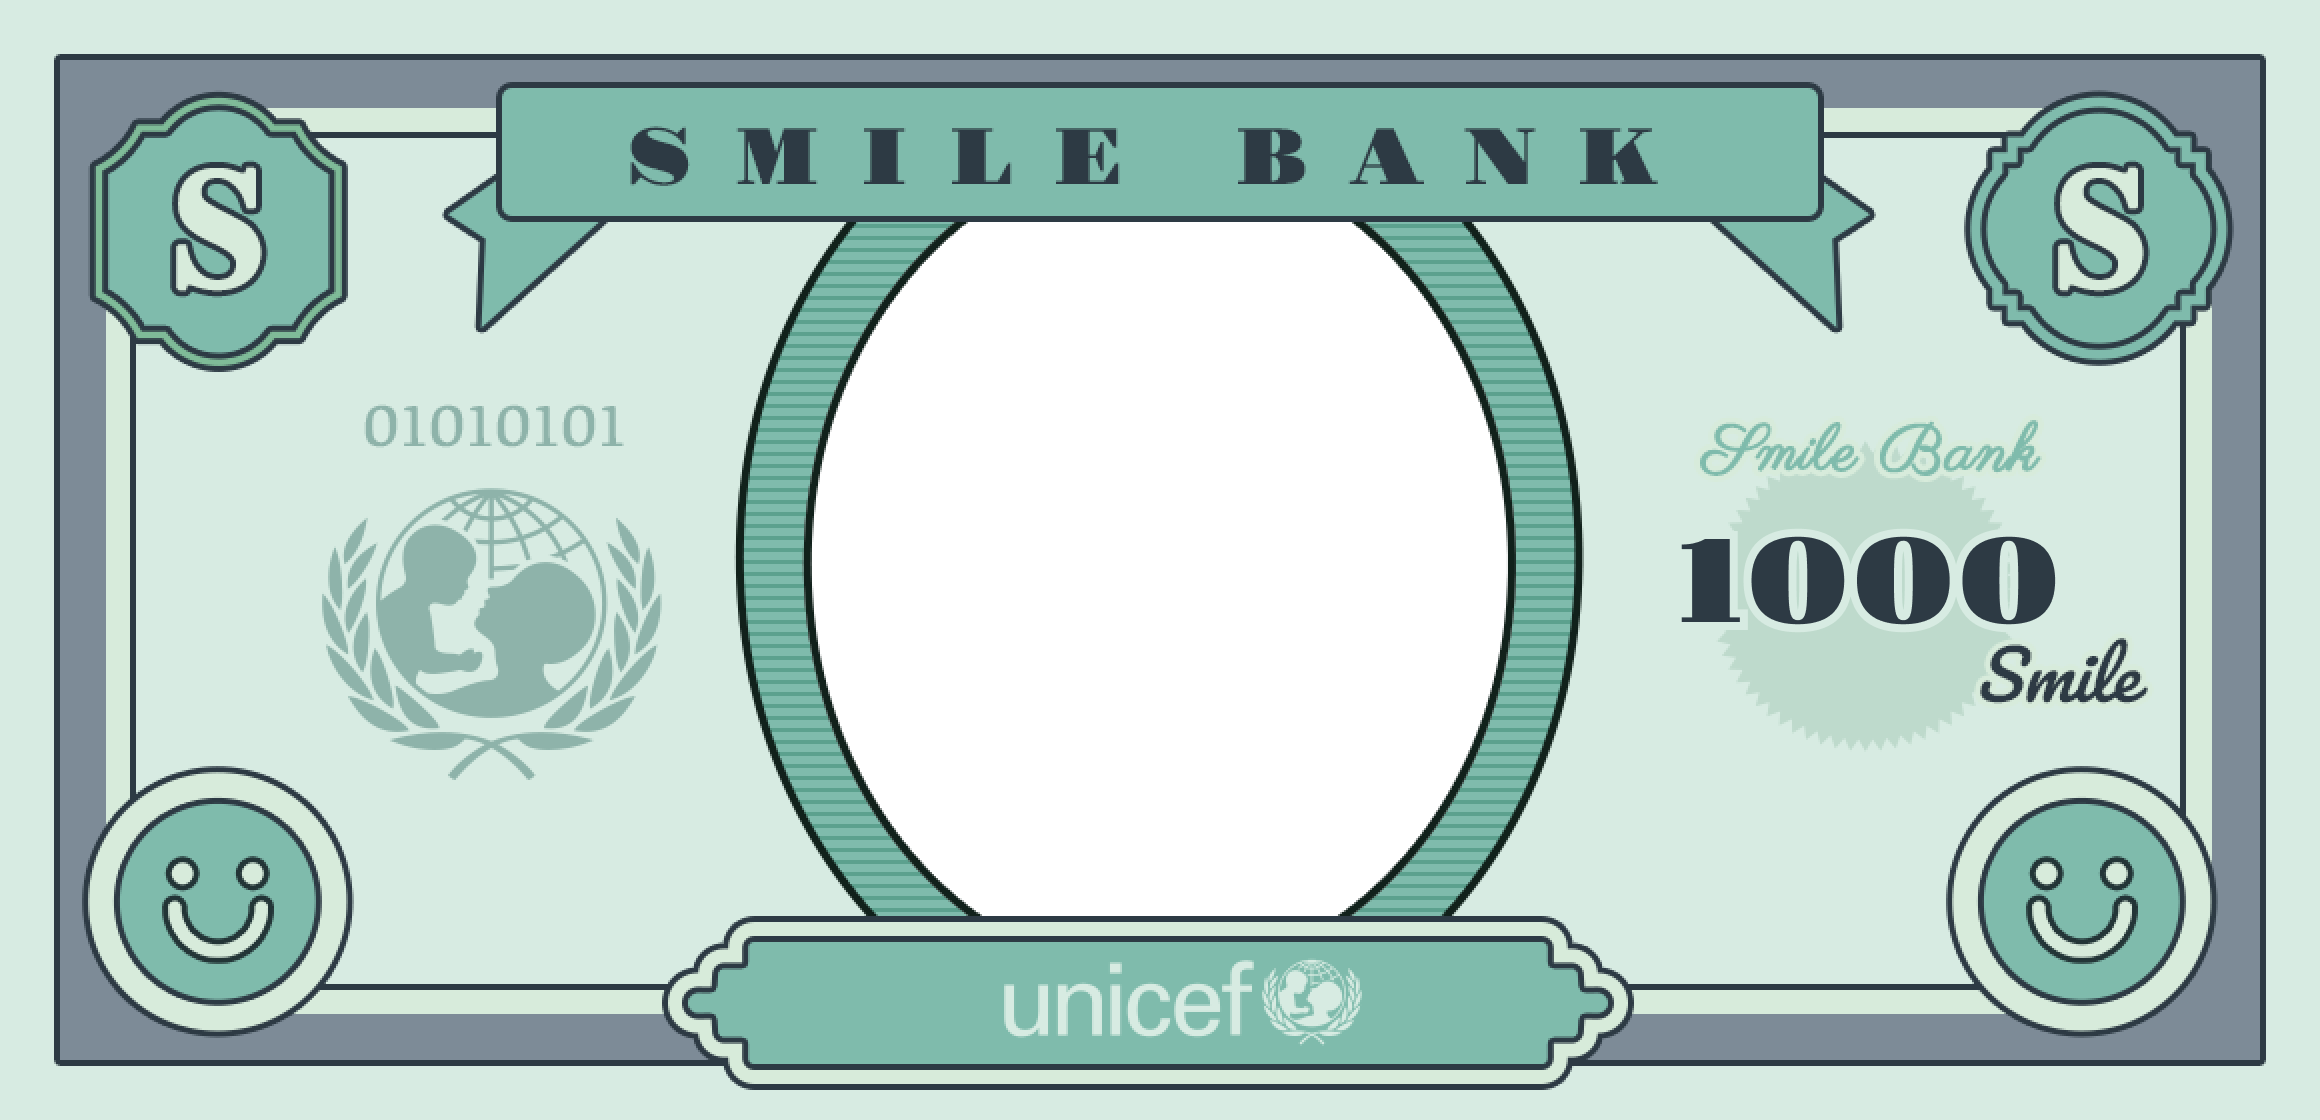
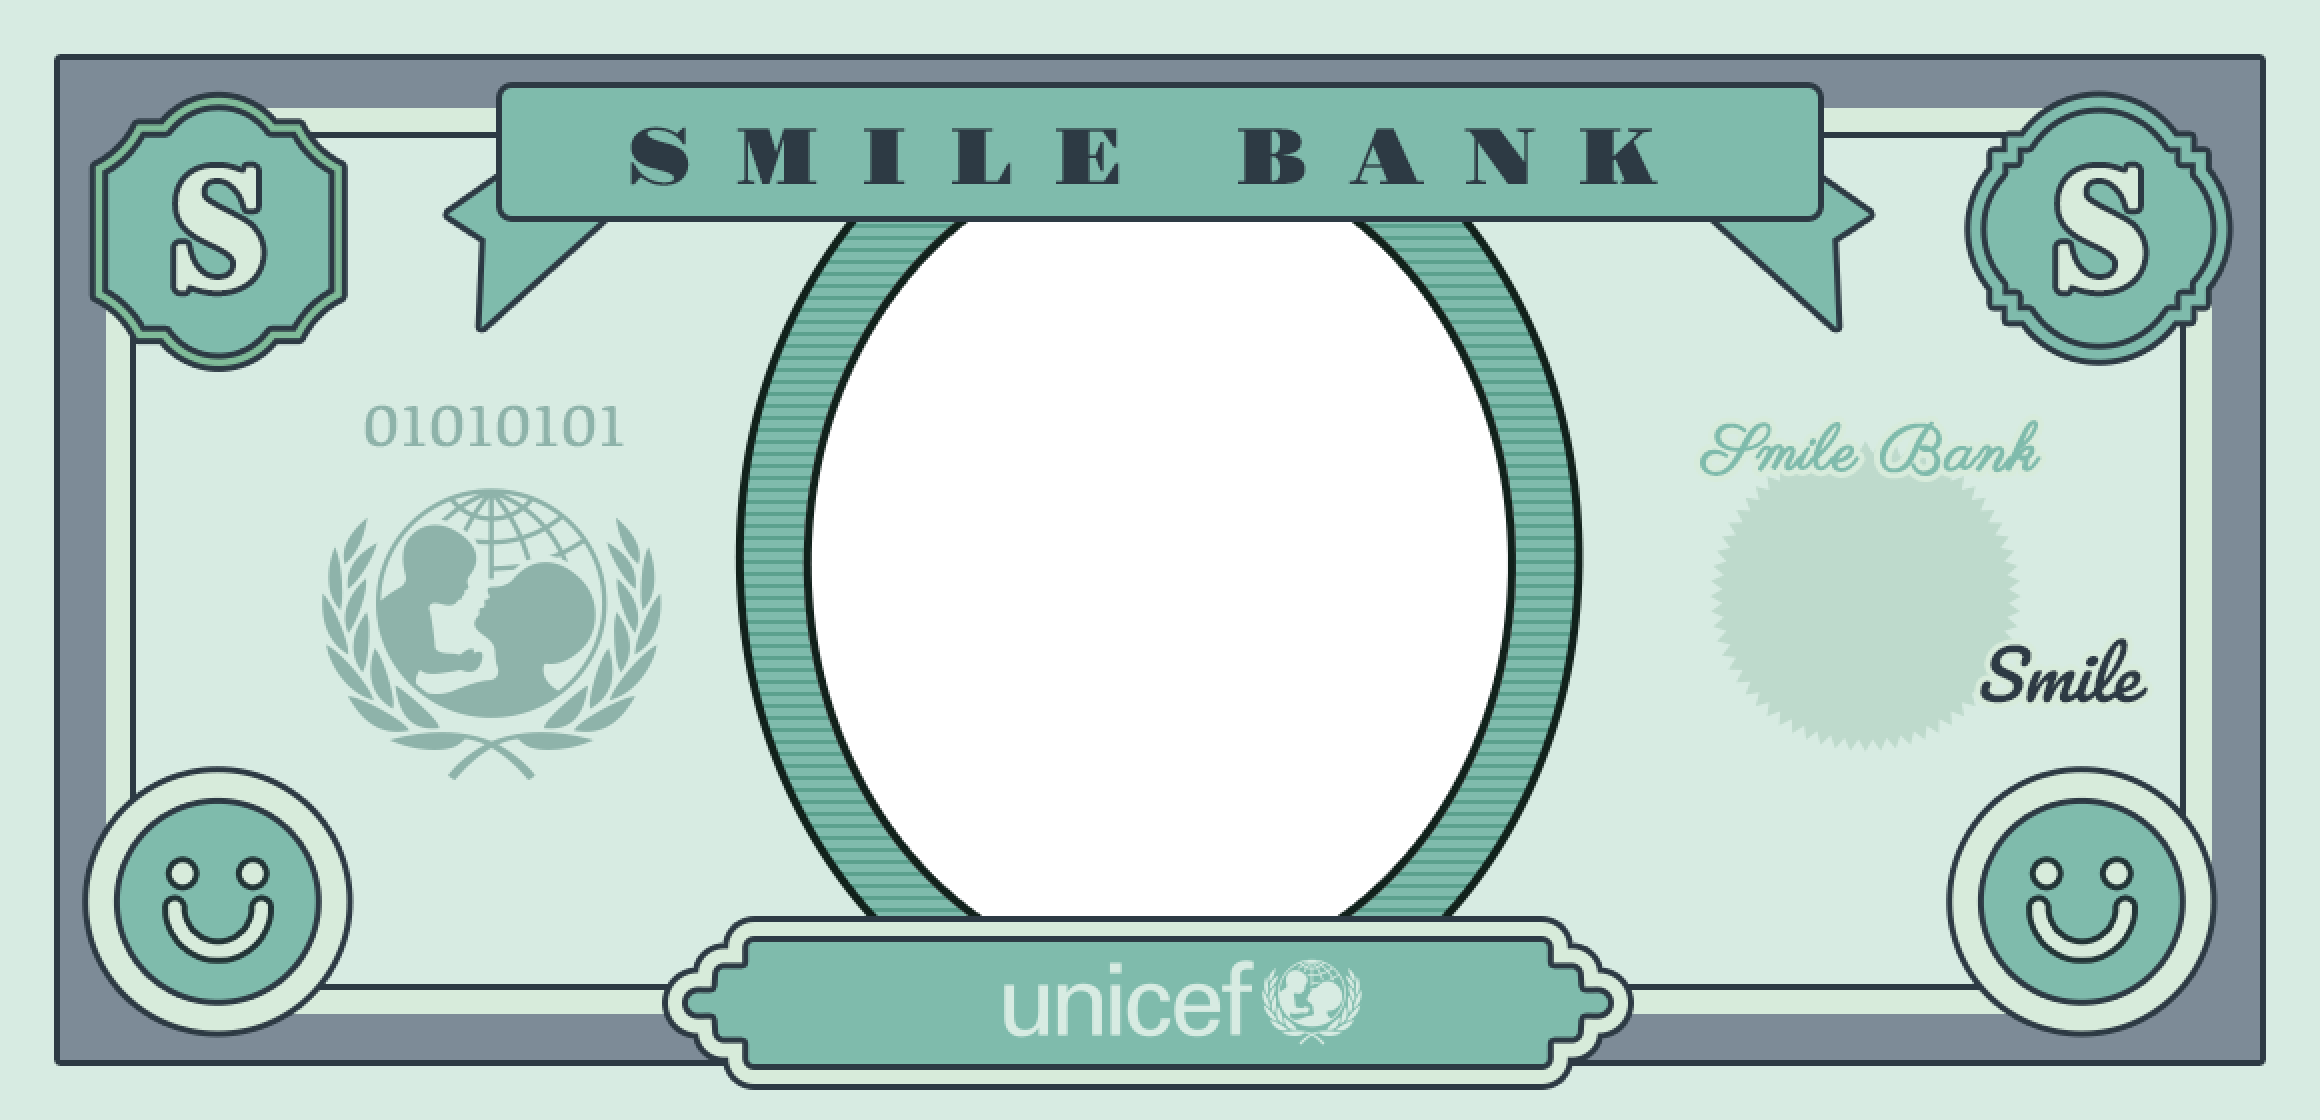
캔버스 합성 추가

Changed region(s): [[0.7138, 0.4688, 0.9, 0.5625]]

diff --git a/components/Picture.tsx b/components/Picture.tsx
@@ -1,35 +1,91 @@
 import styled from '@emotion/styled';
-import React from 'react';
-import {Image, Layer, Stage} from 'react-konva';
+import React, {FC, useCallback, useRef} from 'react';
+import {Image, Layer, Stage, Text} from 'react-konva';
 import useImage from 'use-image';
+
+interface IPictureProp {
+  money?: string;
+}
 
 const Container = styled.div`
   background-color: lightblue;
 `;
 
+const Button = styled.button`
+  font-size: 50px;
+`;
+
 const url = 'img/money.png';
 const image = 'img/donggle.png';
-const Picture = () => {
+const canvasWidth = 1160;
+const canvasHeight = 560;
+const imageWidth = 352;
+const imageHeight = 420;
+const gap = 240;
+const totalLen = 5;
+
+const Picture: FC<IPictureProp> = ({money = '20000'}) => {
+  const pictureStage: any = useRef(null);
   const [imageSrc] = useImage(url);
   const [imageSrc2] = useImage(image);
-  const number = 1000;
+  const moneyLength = (totalLen - money.length) * 20;
+
+  const downloadURI = useCallback((uri, name) => {
+    var link = document.createElement('a');
+    link.download = name;
+    link.href = uri;
+    document.body.appendChild(link);
+    link.click();
+    document.body.removeChild(link);
+  }, []);
 
   return (
     <Container>
-      <Stage width={1160} height={560}>
+      <Stage width={canvasWidth} height={canvasHeight} ref={pictureStage}>
         <Layer>
           <Image
             image={imageSrc2}
             alt=""
-            x={1160 / 2 - 352 / 2}
-            y={560 / 2 - 420 / 2}
-            width={352}
-            height={420}
+            x={canvasWidth / 2 - imageWidth / 2}
+            y={canvasHeight / 2 - imageHeight / 2}
+            width={imageWidth}
+            height={imageHeight}
           />
-          {/* <Text /> */}
-          <Image image={imageSrc} width={1160} height={560} alt="" />
+
+          <Image
+            image={imageSrc}
+            width={canvasWidth}
+            height={canvasHeight}
+            alt=""
+          />
+          {/* 다섯자리 810  + 0 */}
+          {/* 네자리 835 + 20 */}
+          {/* 세자리 860 + 20 (40) */}
+          {/* 네자리 890 + 20 (60) */}
+          {/* 한자리 920 + 20 (80)*/}
+          <Text
+            text={money}
+            x={canvasWidth / 2 + gap + moneyLength}
+            y={264}
+            fontSize={60}
+            fill={'rgba(45, 58, 68, 1)'}
+            fontFamily={'Gravitas One, cursive'}
+            fillAfterStrokeEnabled={true}
+            stroke={'rgba(215, 235, 226, 1)'}
+            strokeWidth={8}
+          />
         </Layer>
       </Stage>
+
+      <Button
+        type="button"
+        onClick={() => {
+          const url = pictureStage.current.toDataURL();
+          downloadURI(url, 'photo');
+        }}
+      >
+        save
+      </Button>
     </Container>
   );
 };

diff --git a/components/ImageCrop.tsx b/components/ImageCrop.tsx
@@ -26,6 +26,7 @@ interface ImageCropProps {
 const Container = styled.div`
   border: 1px solid red;
 `;
+
 const Button = styled.button`
   font-size: 50px;
 `;

diff --git a/styles/globals.css b/styles/globals.css
@@ -1,3 +1,5 @@
+@import url('https://fonts.googleapis.com/css2?family=Gravitas+One&display=swap');
+
 html,
 body {
   padding: 0;
